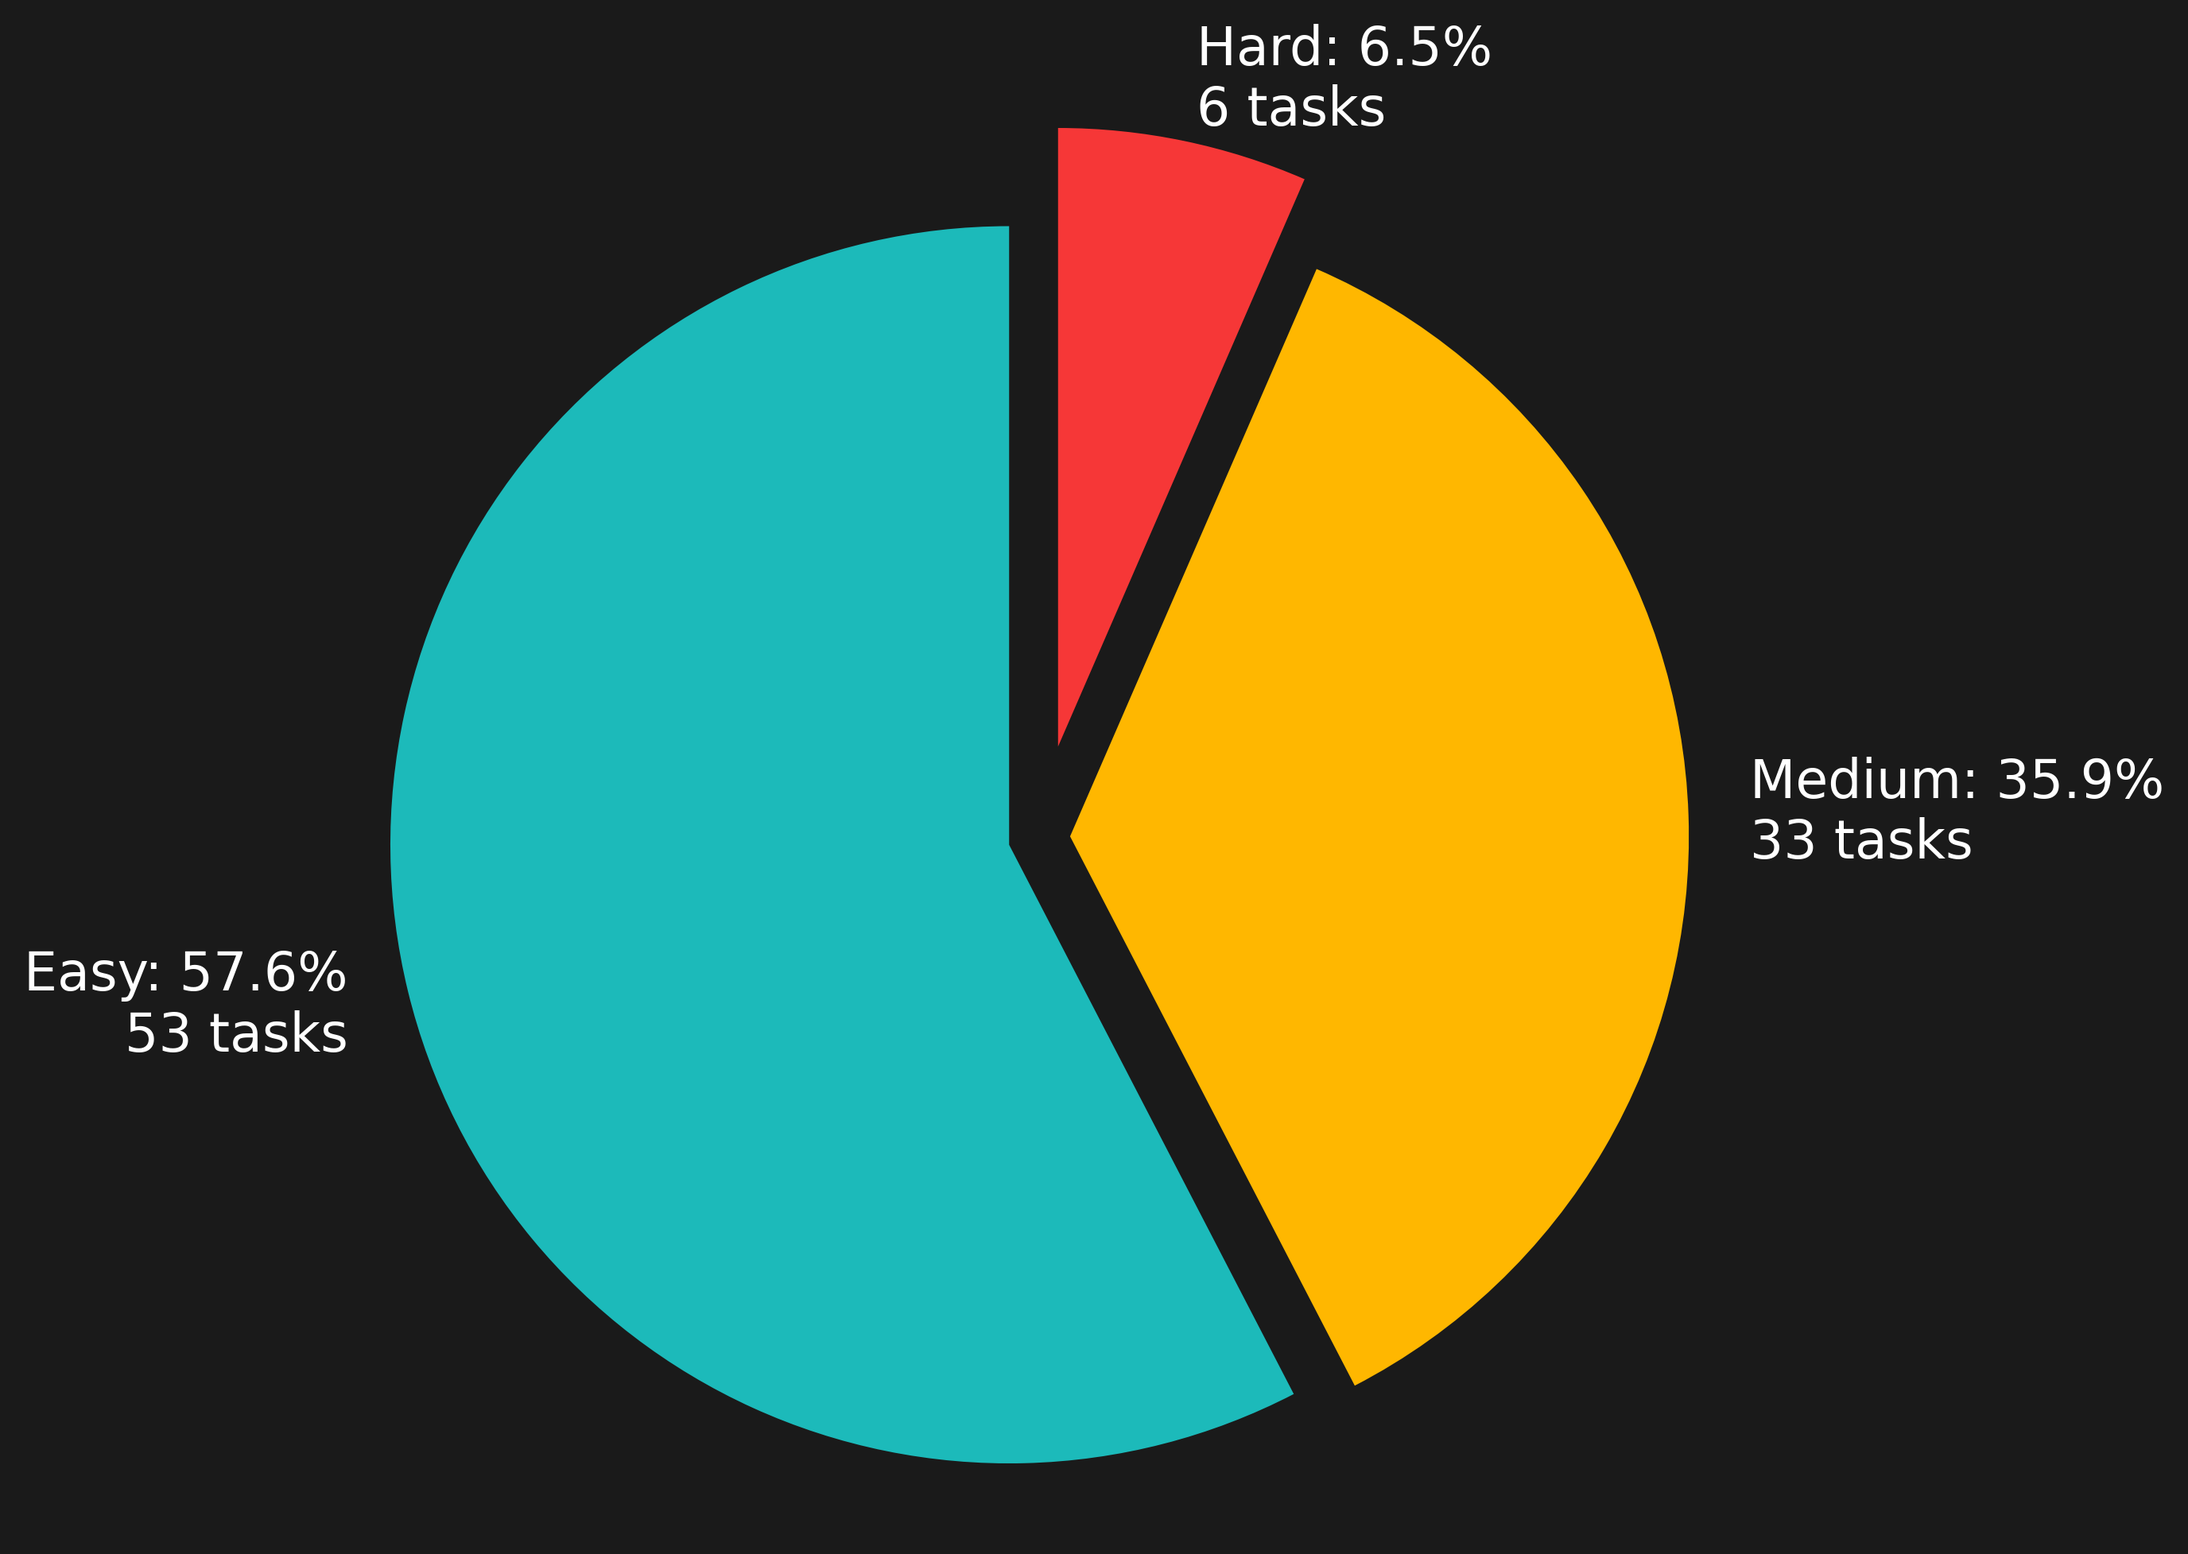
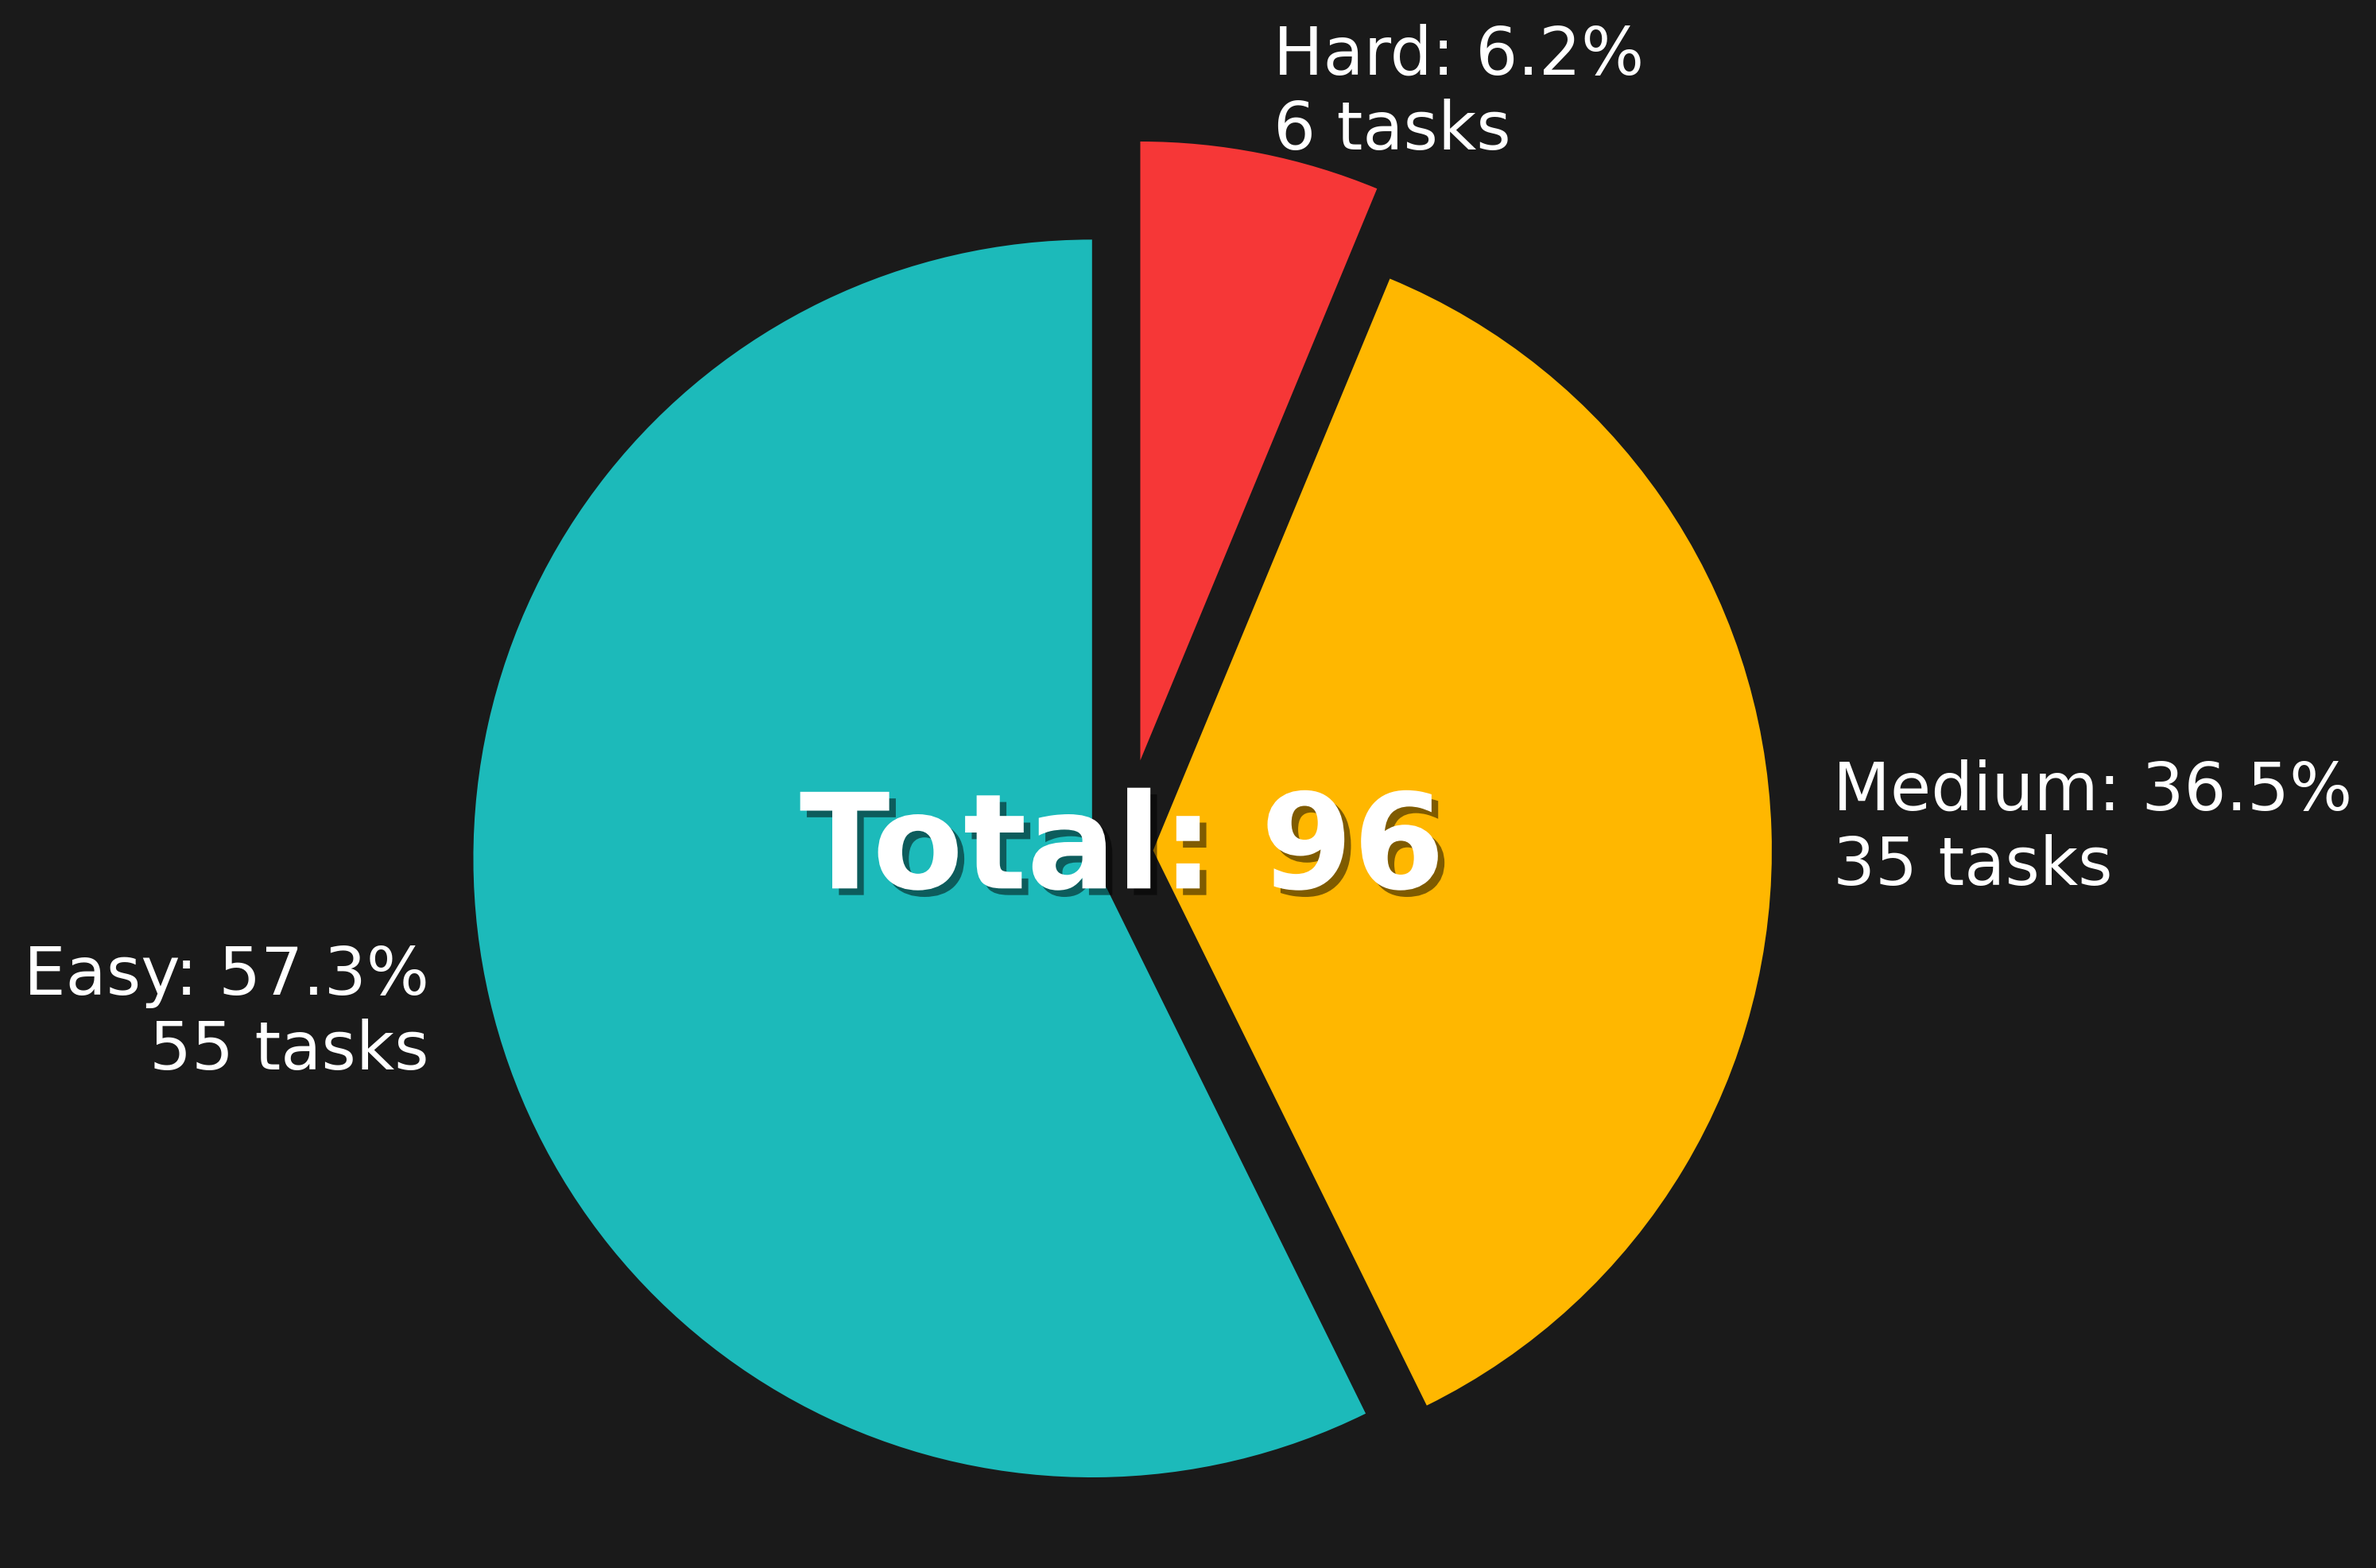
pie chart edit

diff --git a/process_data/pie_chart.py b/process_data/pie_chart.py
@@ -1,6 +1,5 @@
-import matplotlib.pyplot as plt
+import matplotlib.patheffects as pe
 from theme import leetcode_palette as palette
-
 
 def manage_pie_chart(plt, df, ax):
     # Получаем последние данные
@@ -23,11 +22,11 @@ def manage_pie_chart(plt, df, ax):
     total_solved = last_row['total_solved']
     percentages = [count / total_solved * 100 for count in solved_counts]
 
-    # Создаем лейблы в формате 'Easy: 53 tasks (57.6%)'
+    # Создаём лейблы в формате 'Easy: 53 tasks (57.6%)'
     custom_labels = [f"{cat}: {pct:.1f}%\n{count:,} tasks"
-              for cat, count, pct in zip(categories, solved_counts, percentages)]
+                  for cat, count, pct in zip(categories, solved_counts, percentages)]
 
-    # Создаем круговую диаграмму с уменьшенным радиусом
+    # Создаём круговую диаграмму с уменьшенным радиусом
     wedges, texts = ax.pie(
         solved_counts,
         labels=custom_labels,
@@ -35,7 +34,23 @@ def manage_pie_chart(plt, df, ax):
         startangle=90,
         explode=explode,
         radius=0.2,  # Уменьшаем диаметр (стандарт = 1.0)
-        textprops={'fontsize': 16, 'color': palette["text"]}
+        textprops={'fontsize': 20, 'color': palette["text"]}
+    )
+
+    # Добавляем текст с общим количеством задач в центре диаграммы
+    ax.text(
+        0, 0,  # Координаты центра (0,0) — центр диаграммы
+        f'Total: {total_solved:,}',
+        ha='center',  # Горизонтальное выравнивание по центру
+        va='center',  # Вертикальное выравнивание по центру
+        fontsize=40,
+        color=palette["text"],
+        fontweight='bold',
+        path_effects=[pe.withSimplePatchShadow(
+            offset=(2, -2),  # Смещение тени (dx, dy)
+            shadow_rgbFace='black',  # Цвет тени
+            alpha=0.5)  # Прозрачность тени (0 — полностью прозрачная, 1 — непрозрачная)
+        ]
     )
 
     ax.axis('equal')
